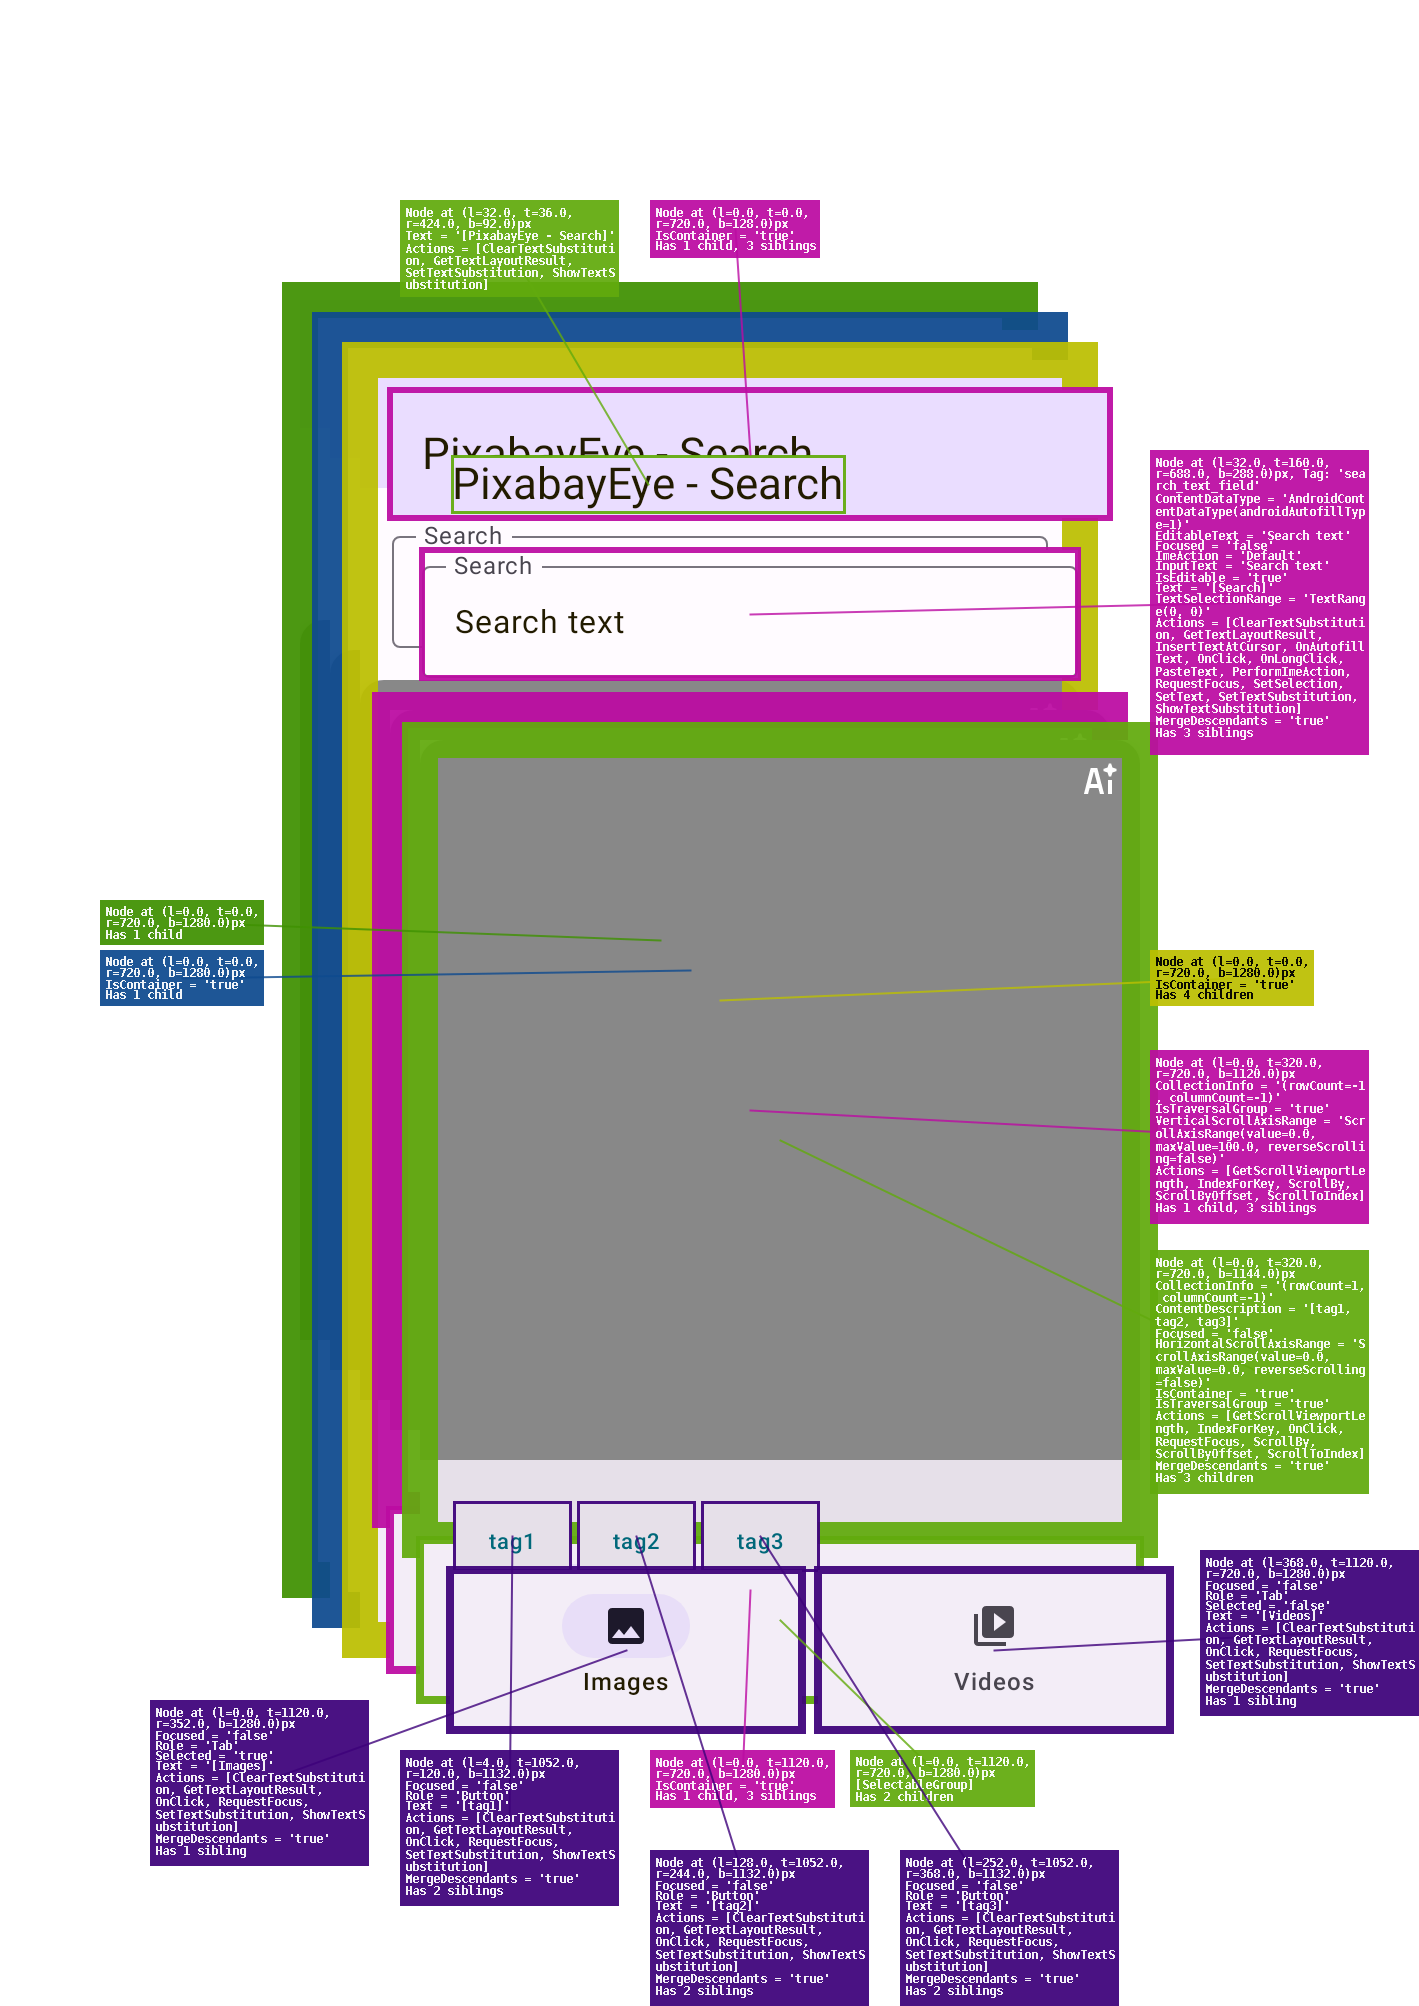
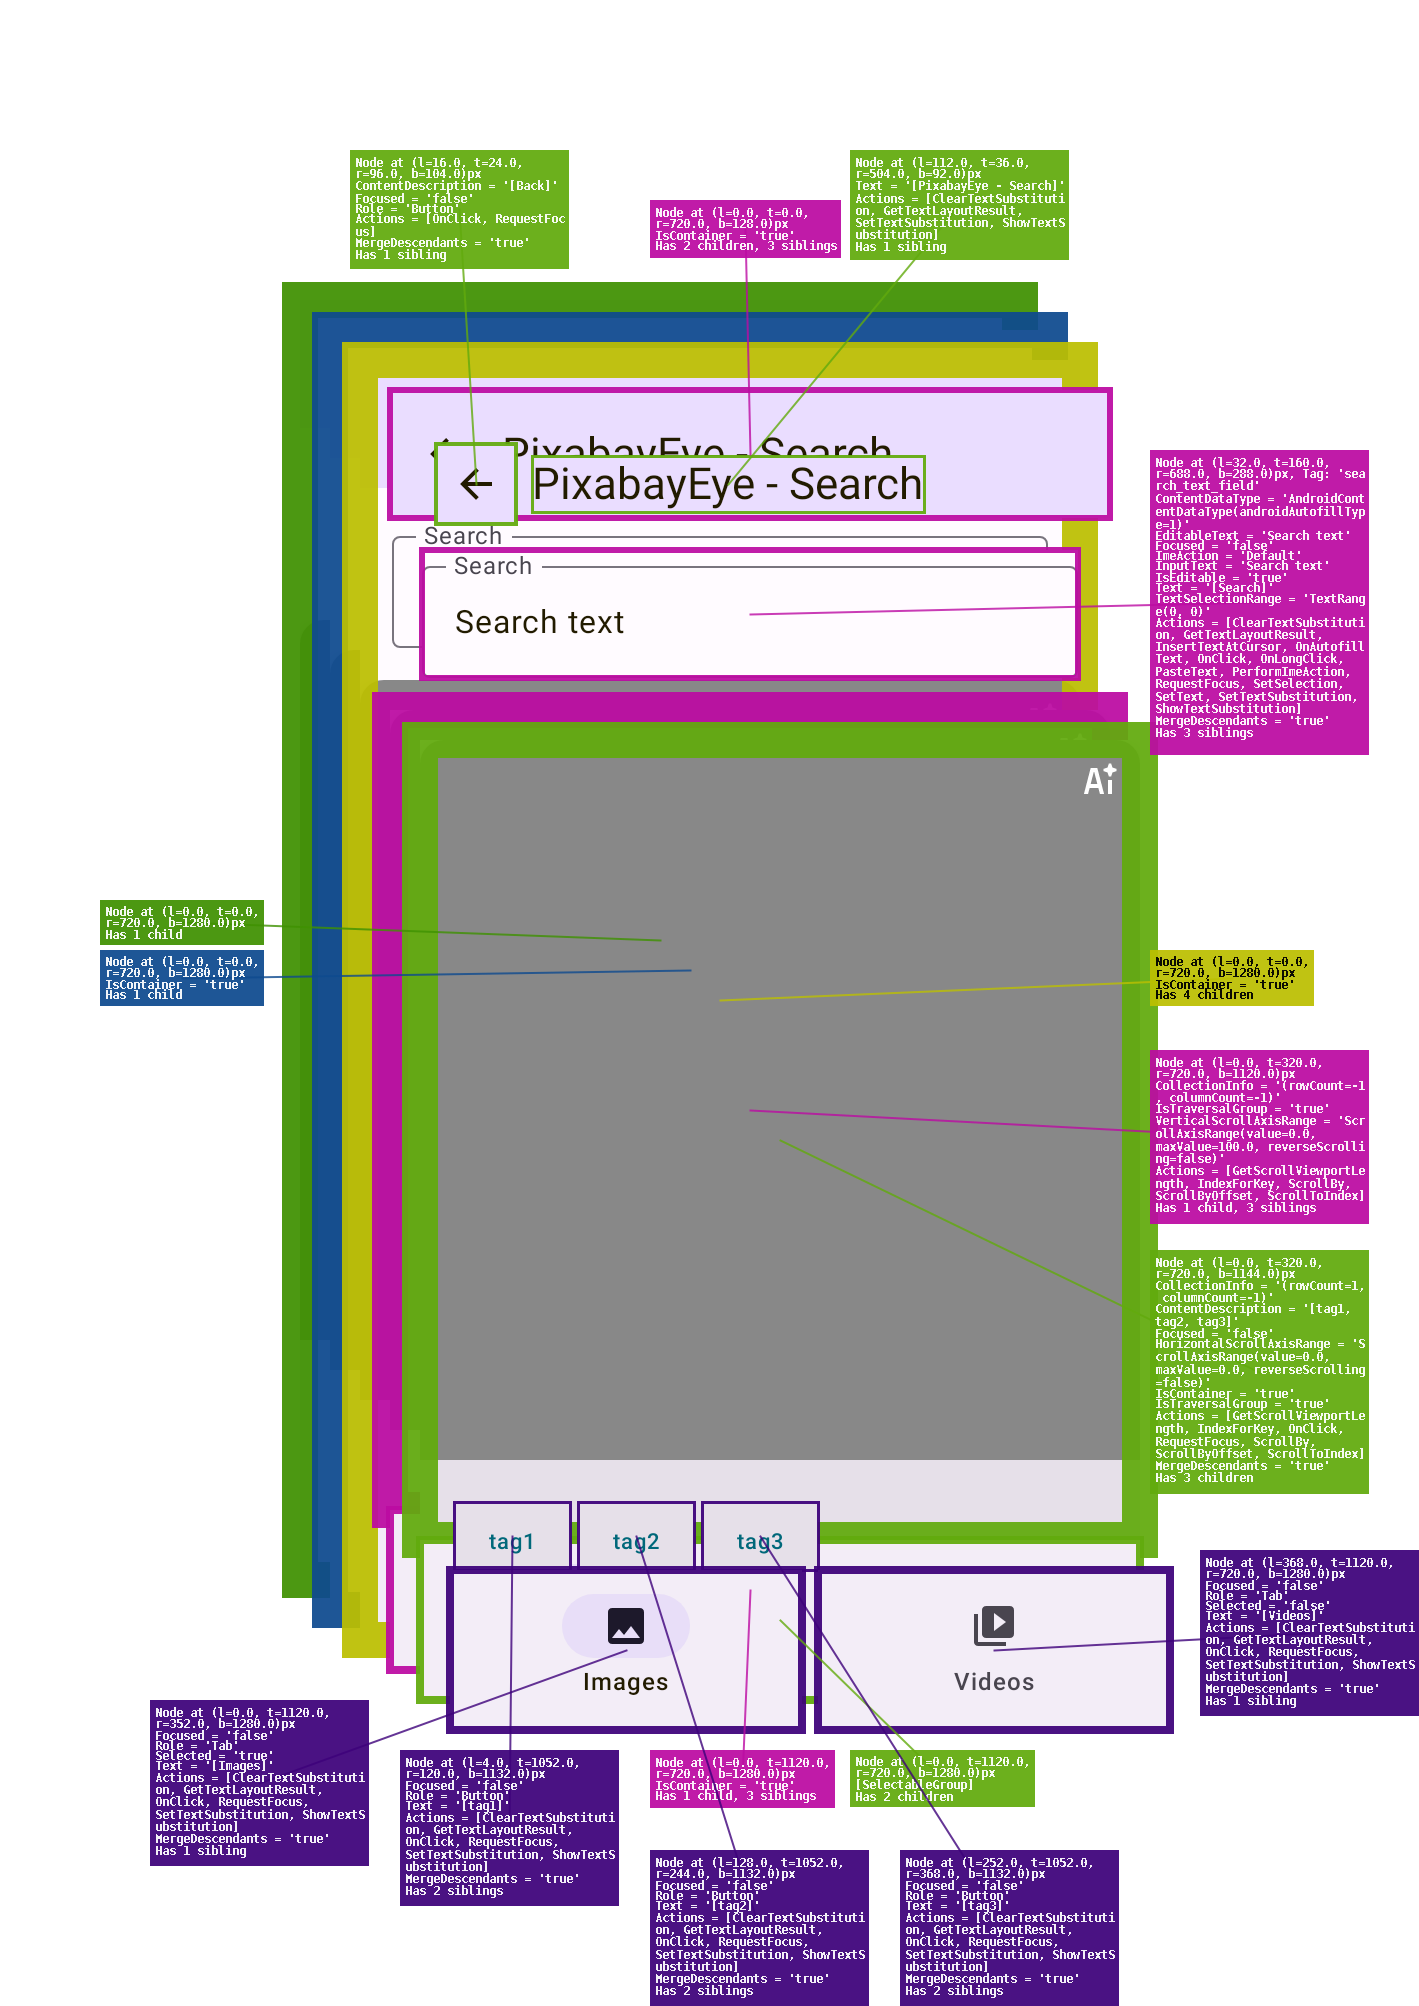
Add navigation back to TopAppBar

diff --git a/ui/uiImageList/src/commonMain/kotlin/siarhei/luskanau/pixabayeye/ui/image/list/ImageListViewModel.kt b/ui/uiImageList/src/commonMain/kotlin/siarhei/luskanau/pixabayeye/ui/image/list/ImageListViewModel.kt
@@ -15,7 +15,7 @@ import siarhei.luskanau.pixabayeye.core.network.PixabayApiService
 
 @Factory
 class ImageListViewModel(
-    @InjectedParam private val searchNavigationCallback: ImageListNavigationCallback,
+    @InjectedParam private val imageListNavigationCallback: ImageListNavigationCallback,
     @InjectedParam private val initialSearchTerm: String?,
     @Provided private val pixabayApiService: PixabayApiService
 ) : ViewModel() {
@@ -32,17 +32,19 @@ class ImageListViewModel(
 
     fun onEvent(event: ImageListViewEvent) {
         when (event) {
-            ImageListViewEvent.DebugScreenClicked -> searchNavigationCallback.onDebugScreenClicked()
+            ImageListViewEvent.DebugScreenClicked ->
+                imageListNavigationCallback.onDebugScreenClicked()
             is ImageListViewEvent.ImageClicked ->
-                searchNavigationCallback.onSearchScreenImageClicked(imageId = event.hitModel.id)
+                imageListNavigationCallback.onSearchScreenImageClicked(imageId = event.hitModel.id)
             is ImageListViewEvent.TagClicked -> viewModelScope.launch {
                 _searchTermFlow.emit(event.tag)
-                searchNavigationCallback.onImageTagClicked(tag = event.tag)
+                imageListNavigationCallback.onImageTagClicked(tag = event.tag)
             }
             is ImageListViewEvent.UpdateSearchTerm -> viewModelScope.launch {
                 _searchTermFlow.emit(event.searchTerm)
                 paginationState.refresh()
             }
+            ImageListViewEvent.NavigateBack -> imageListNavigationCallback.goBack()
         }
     }
 

diff --git a/ui/uiImageList/src/commonMain/kotlin/siarhei/luskanau/pixabayeye/ui/image/list/ImageListScreen.kt b/ui/uiImageList/src/commonMain/kotlin/siarhei/luskanau/pixabayeye/ui/image/list/ImageListScreen.kt
@@ -82,7 +82,7 @@ internal fun ImageListContent(
         topBar = {
             PixabayTopAppBar(
                 title = stringResource(Res.string.screen_name_search),
-                onBackClick = null,
+                onBackClick = { onEvent(ImageListViewEvent.NavigateBack) },
                 onDebugScreenClick = { onEvent(ImageListViewEvent.DebugScreenClicked) }
             )
         },

diff --git a/ui/uiVideoList/src/commonMain/kotlin/siarhei/luskanau/pixabayeye/ui/video/list/VideoListScreen.kt b/ui/uiVideoList/src/commonMain/kotlin/siarhei/luskanau/pixabayeye/ui/video/list/VideoListScreen.kt
@@ -85,7 +85,7 @@ internal fun VideoListContent(
         topBar = {
             PixabayTopAppBar(
                 title = stringResource(Res.string.screen_name_search),
-                onBackClick = null,
+                onBackClick = { onEvent(VideoListViewEvent.NavigateBack) },
                 onDebugScreenClick = { onEvent(VideoListViewEvent.DebugScreenClicked) }
             )
         },

diff --git a/ui/uiVideoList/src/commonMain/kotlin/siarhei/luskanau/pixabayeye/ui/video/list/VideoListViewEvent.kt b/ui/uiVideoList/src/commonMain/kotlin/siarhei/luskanau/pixabayeye/ui/video/list/VideoListViewEvent.kt
@@ -7,4 +7,5 @@ sealed interface VideoListViewEvent {
     data class VideoClicked(val hitModel: HitModel) : VideoListViewEvent
     data class TagClicked(val tag: String) : VideoListViewEvent
     data object DebugScreenClicked : VideoListViewEvent
+    data object NavigateBack : VideoListViewEvent
 }

diff --git a/ui/uiImageList/src/commonMain/kotlin/siarhei/luskanau/pixabayeye/ui/image/list/ImageListViewEvent.kt b/ui/uiImageList/src/commonMain/kotlin/siarhei/luskanau/pixabayeye/ui/image/list/ImageListViewEvent.kt
@@ -7,4 +7,5 @@ sealed interface ImageListViewEvent {
     data class ImageClicked(val hitModel: HitModel) : ImageListViewEvent
     data class TagClicked(val tag: String) : ImageListViewEvent
     object DebugScreenClicked : ImageListViewEvent
+    data object NavigateBack : ImageListViewEvent
 }

diff --git a/ui/uiVideoList/src/commonMain/kotlin/siarhei/luskanau/pixabayeye/ui/video/list/VideoListViewModel.kt b/ui/uiVideoList/src/commonMain/kotlin/siarhei/luskanau/pixabayeye/ui/video/list/VideoListViewModel.kt
@@ -45,6 +45,7 @@ class VideoListViewModel(
                 _searchTermFlow.emit(event.searchTerm)
                 paginationState.refresh()
             }
+            VideoListViewEvent.NavigateBack -> videoListNavigationCallback.goBack()
         }
     }
 

diff --git a/ui/uiVideoList/src/commonMain/kotlin/siarhei/luskanau/pixabayeye/ui/video/list/VideoListNavigationCallback.kt b/ui/uiVideoList/src/commonMain/kotlin/siarhei/luskanau/pixabayeye/ui/video/list/VideoListNavigationCallback.kt
@@ -3,4 +3,5 @@ package siarhei.luskanau.pixabayeye.ui.video.list
 interface VideoListNavigationCallback {
     fun onVideoListScreenVideoClicked(videoId: Long)
     fun onDebugScreenClicked()
+    fun goBack()
 }

diff --git a/ui/uiImageList/src/commonMain/kotlin/siarhei/luskanau/pixabayeye/ui/image/list/ImageListNavigationCallback.kt b/ui/uiImageList/src/commonMain/kotlin/siarhei/luskanau/pixabayeye/ui/image/list/ImageListNavigationCallback.kt
@@ -4,4 +4,5 @@ interface ImageListNavigationCallback {
     fun onSearchScreenImageClicked(imageId: Long)
     fun onImageTagClicked(tag: String)
     fun onDebugScreenClicked()
+    fun goBack()
 }
